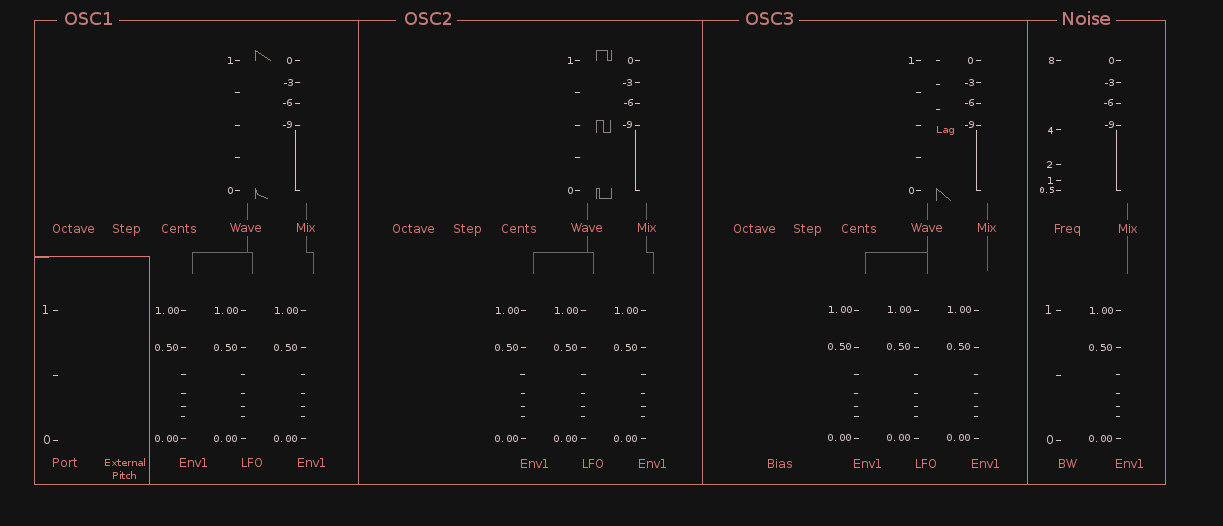
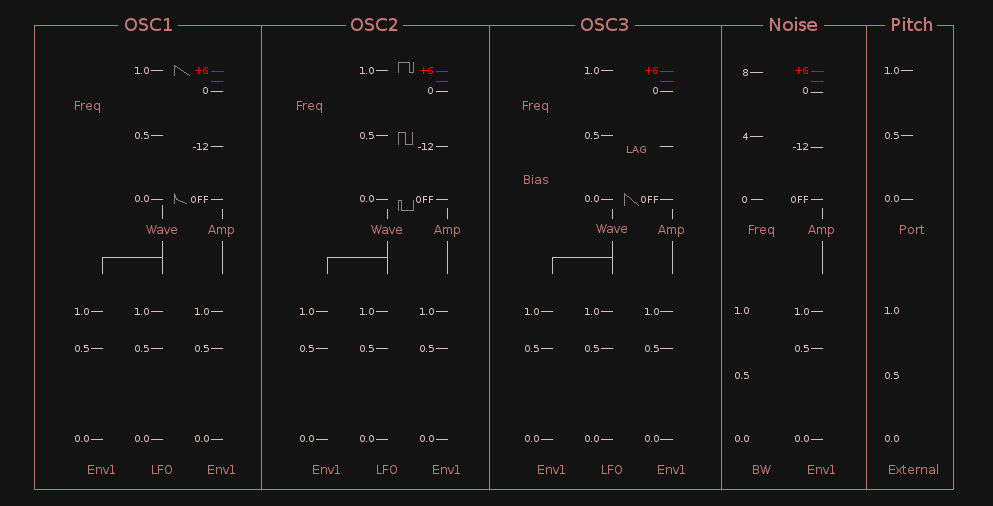
Replaced Saw3 editor frequency controls.

diff --git a/llia/synths/saw3/tk/editor.py b/llia/synths/saw3/tk/editor.py
@@ -1,0 +1,108 @@
+# llia.synths.saw3.tk.s3ed
+
+from __future__ import print_function
+from Tkinter import Frame
+
+from llia.gui.tk.tk_subeditor import TkSubEditor
+import llia.gui.tk.tk_factory as factory
+import llia.gui.tk.control_factory as cf
+from llia.gui.tk.expslider import ExpSlider
+from llia.gui.tk.freq_spinner import FrequencySpinnerControl
+from llia.synths.saw3.tk.s3filter import TkSaw3FilterPanel
+
+def create_editor(parent):
+    panel1 = TkSaw3Panel1(parent)
+    panel2 = TkSaw3FilterPanel(parent)
+    panel4 = TkSaw3InfoPanel(parent)
+    
+class TkSaw3Panel1(TkSubEditor):
+
+    NAME = "Saw3 Oscillators"
+    IMAGE_FILE = "resources/Saw3/editor_osc.png"
+    
+    def __init__(self, editor):
+        frame = editor.create_tab(self.NAME)
+        frame.config(background=factory.bg())
+        canvas = factory.canvas(frame, 1200, 600, self.IMAGE_FILE)
+        canvas.pack()
+        self.canvas = canvas
+        self.editor = editor
+        TkSubEditor.__init__(self, canvas, editor, self.NAME)
+        editor.add_child_editor(self.NAME, self)
+        y0 = 60
+        y1 = 300
+        yfreq_offset = 0
+        ybias_offset = 75
+        x0, xosc_offset = 50, 225
+        x_wave_offset = 105
+        x_amp_offset = x_wave_offset+60
+        x_env1_wave_offset = x_wave_offset-60
+        x_lfo_wave_offset = x_wave_offset
+        x_env1_amp_offset = x_amp_offset
+        for i, osc in enumerate(("osc1", "osc2", "osc3")):
+            x = x0 + (i * xosc_offset)
+            self.spinner(osc+"Freq", x, y0+yfreq_offset)
+            self.norm_slider(osc+"Wave", x+x_wave_offset, y0)
+            self.volume_slider(osc+"Amp", x+x_amp_offset, y0)
+            self.exp_slider(osc+"Wave_env1", x+x_env1_wave_offset, y1)
+            self.exp_slider(osc+"Wave_lfo", x+x_lfo_wave_offset, y1)
+            self.exp_slider(osc+"Amp_env1", x+x_env1_amp_offset, y1)
+            xosc3 = x
+        self.spinner("osc3Bias", xosc3, y0+ybias_offset, (0,9999))
+        self.norm_slider("osc3WaveLag", xosc3+x_wave_offset+25, y0, width=10, height=75)
+        xnoise = xosc3 + xosc_offset + 30
+        self.linear_slider("noiseFreq", xnoise, y0)
+        self.volume_slider("noiseAmp", xnoise+60, y0)
+        self.norm_slider("noiseBW", xnoise, y1)
+        self.exp_slider("noiseAmp_env1", xnoise+60, y1)
+        xpitch = xnoise+150
+        self.linear_slider("port", xpitch, y0, range_=(0,2))
+        self.norm_slider("xToPitch", xpitch, y1)
+
+    def spinner(self, param, x, y, range_=(0,32)):
+        s = FrequencySpinnerControl(self.canvas, param, self.editor,
+                                    range_[0], range_[1])
+        self.add_control(param, s)
+        s.layout(offset=(x,y))
+        return s
+        
+    def volume_slider(self, param, x, y, width=14, height=150):
+        s = cf.volume_slider(self.canvas, param, self.editor)
+        self.add_control(param, s)
+        s.widget().place(x=x, y=y, width=width, height=height)
+        return s
+
+    def norm_slider(self, param, x, y, width=14, height=150):
+        s = cf.normalized_slider(self.canvas, param, self.editor)
+        self.add_control(param, s)
+        s.widget().place(x=x, y=y, width=width, height=height)
+        return s
+
+    def linear_slider(self, param, x, y, range_=(0,8), width=14, height=150):
+        s = cf.linear_slider(self.canvas, param, self.editor,
+                             range_=range_)
+        self.add_control(param, s)
+        s.widget().place(x=x, y=y, width=width, height=height)
+        return s
+
+    def exp_slider(self, param, x, y, width=14, height=150, button_offset=(-5, -28)):
+        s = ExpSlider(self.canvas, param, self.editor,
+                      range_ = 1, degree=2)
+        self.add_control(param, s)
+        s.layout(offset=(x,y), width=width, height=height,
+                 checkbutton_offset = button_offset)
+        return s
+
+
+    
+class TkSaw3InfoPanel(object):
+
+    NAME = "Saw3 Info"
+    IMAGE_FILE = "resources/Saw3/editor_info.png"
+
+    def __init__(self, editor):
+        frame = editor.create_tab(self.NAME)
+        lab_panel = factory.image_label(frame, self.IMAGE_FILE)
+        lab_panel.pack(anchor="nw", expand=False)
+        
+    

diff --git a/llia/synths/saw3/tk/s3filter.py b/llia/synths/saw3/tk/s3filter.py
@@ -15,7 +15,7 @@ from llia.gui.tk.expslider import ExpSlider
 
 class TkSaw3FilterPanel(TkSubEditor):
 
-    NAME = "Filter/Env/LFO"
+    NAME = "Saw3 Filter"
     IMAGE_FILE = "resources/Saw3/editor_filter.png"
 
     def __init__(self, editor):
@@ -30,7 +30,6 @@ class TkSaw3FilterPanel(TkSubEditor):
         s_keytrack = cfactory.linear_slider(frame, "filterKeytrack", editor,range_ = (0.0, 4.0))
         s_freq_env1 = ExpSlider(frame, "filterFreq_env1", editor, range_=12000, degree=4)
         s_freq_lfo =  ExpSlider(frame, "filterFreq_lfo", editor, range_=12000, degree=4)
-        #s_freq_external = cfactory.normalized_slider(frame,"xToFilterFreq", editor)
         s_freq_external = ExpSlider(frame, "xToFilterFreq", editor, range_=12000, degree=4)
         s_bandpass_offset = cfactory.linear_slider(frame, "bandpassOffset", editor,range_ = (1, 16))
         s_bandpass_lag = cfactory.normalized_slider(frame, "bandpassLag", editor)
@@ -43,7 +42,6 @@ class TkSaw3FilterPanel(TkSubEditor):
         s_keytrack.widget().place(x=x1, y=y0)
         s_freq_env1.layout((x0,y1), checkbutton_offset=(-5,-28))
         s_freq_lfo.layout((x1,y1), checkbutton_offset=(-5,-28))
-        #s_freq_external.widget().place(x=x1+30, y=y1)
         s_freq_external.layout(offset = (x1+30, y1), checkbutton_offset = None)
         s_bandpass_offset.widget().place(x=x2, y=y0)
         s_bandpass_lag.widget().place(x=x3, y=y0, width=10, height=75)

diff --git a/llia/synths/saw3/s3_proxy.py b/llia/synths/saw3/s3_proxy.py
@@ -20,7 +20,7 @@ class Saw3Proxy(SynthProxy):
     def create_subeditors(self):
         gui = self.app.config["gui"].upper()
         if gui == "TK":
-            from llia.synths.saw3.tk.s3ed import create_editor
+            from llia.synths.saw3.tk.editor import create_editor
             appwin = self.app.main_window()
             parent_editor = appwin[self.sid]
             create_editor(parent_editor)
@@ -33,13 +33,9 @@ s3_pallet["SLIDER-TROUGH"] = "#1f2f40"
 specs["constructor"] = Saw3Proxy
 specs["description"] = "A 3 Oscillator Subtractive Synth"
 specs["keymodes"] = ("Poly1", "PolyRotate", "Mono1")
-# specs["audio-output-buses"] = (("outbus", 1),)
-# specs["control-input-buses"] = ("xbus",)
 specs["pretty-printer"] = pp_saw3  
 specs["program-generator"] = s3gen
 specs["pallet"] = s3_pallet
 specs["help"] = "saw3"
-
-
 specs["audio-output-buses"] = [["outbus", "out_0"]]
 specs["control-input-buses"] = [["xbus", "CBUS_B"]]
